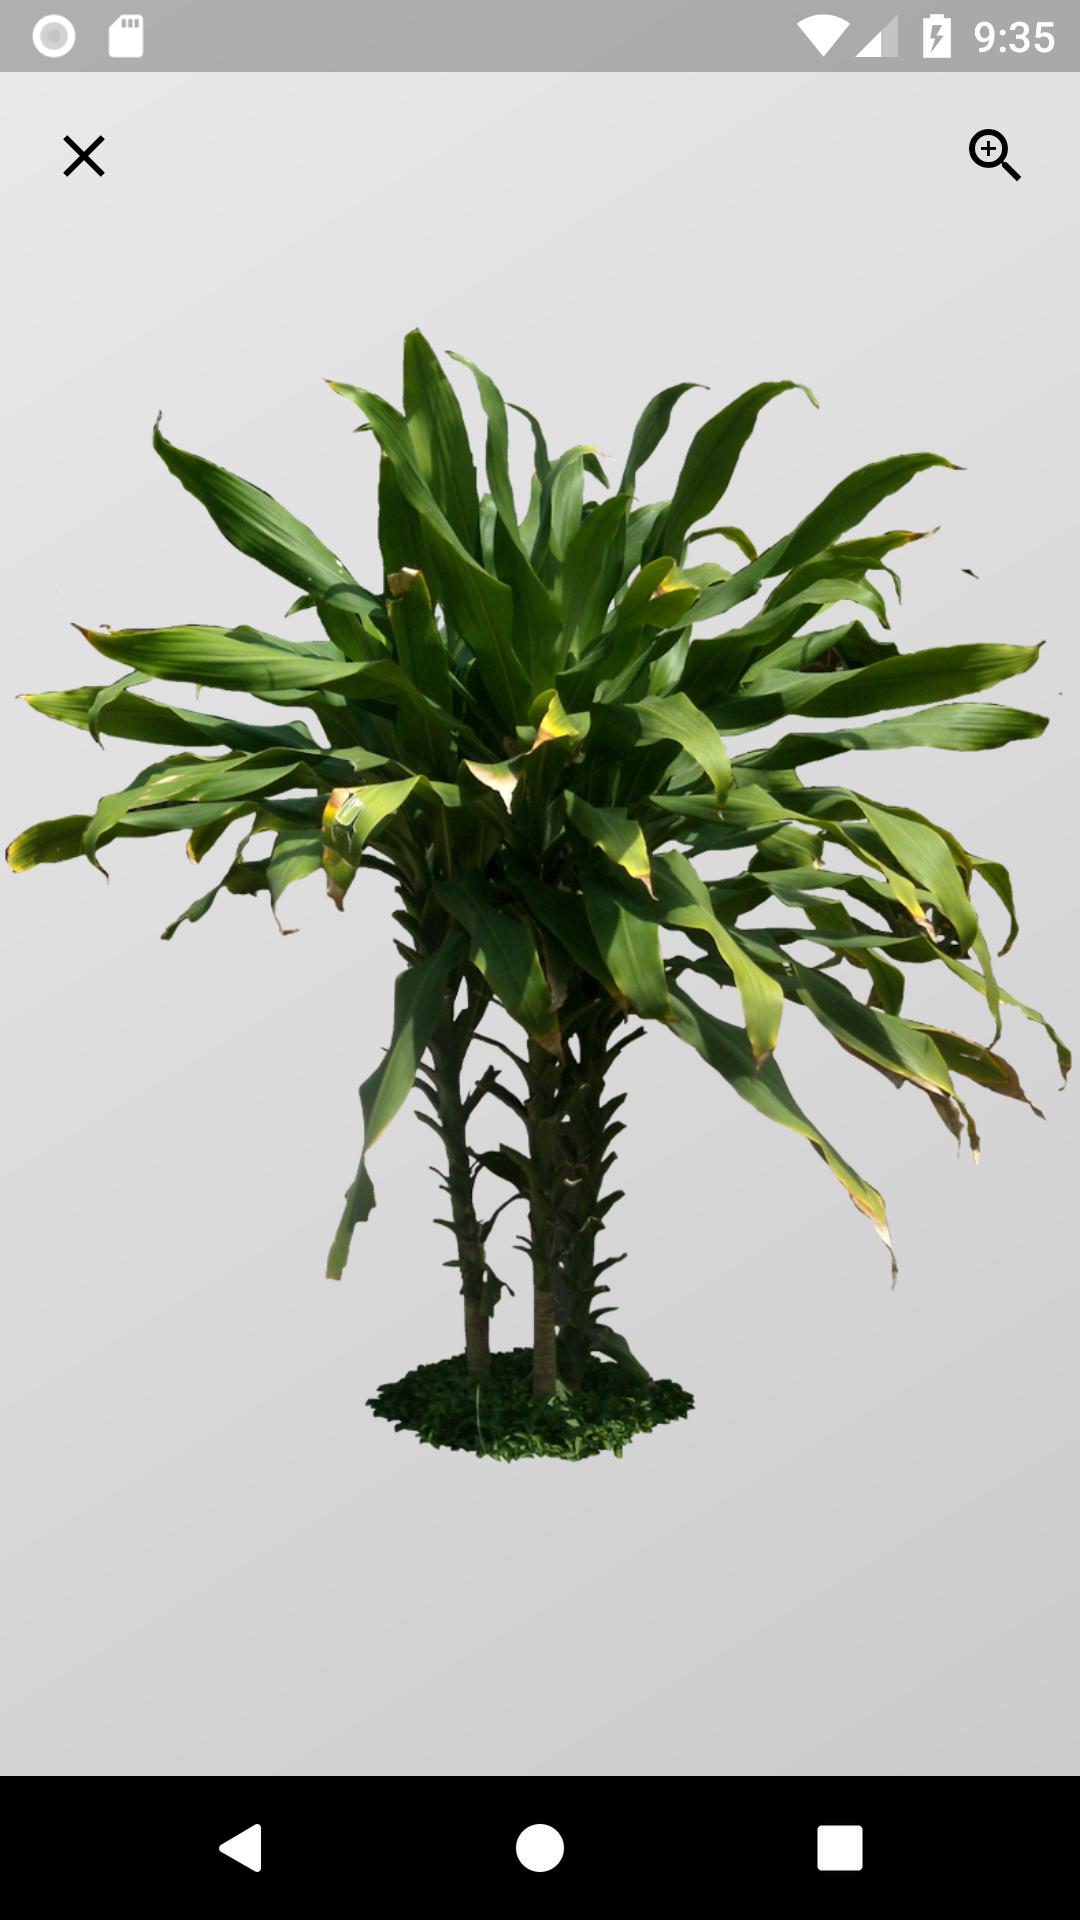
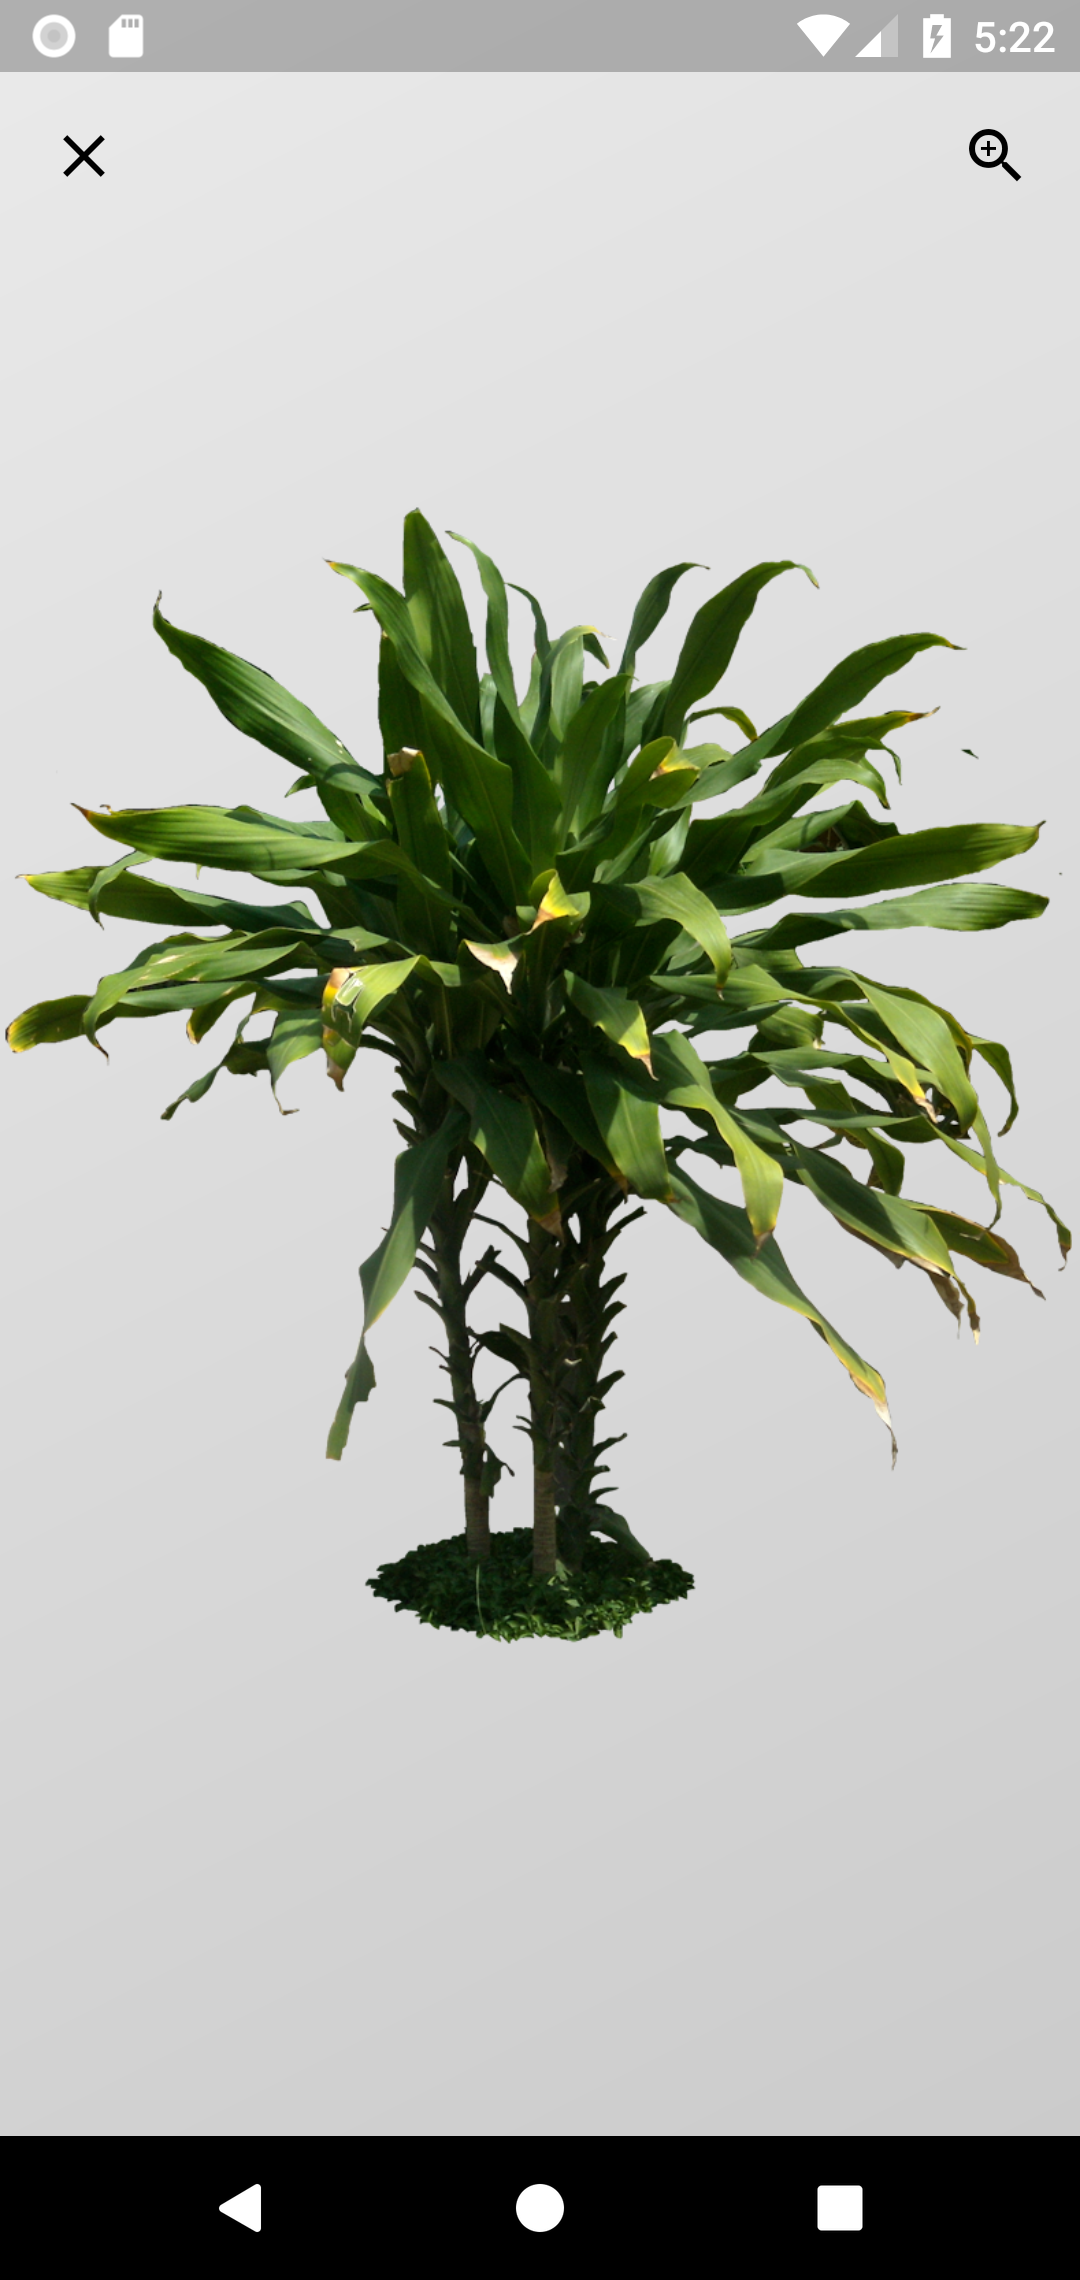
Better shadows, better no items cart page, and 19.5:9 (iphone x) screenshots

Changed region(s): [[0.0, 0.1562, 1.0, 0.7812], [0.0, 0.0, 1.0, 0.0938], [0.0, 0.9062, 1.0, 1.0]]

diff --git a/lib/pages/cart_page/cart_page.dart b/lib/pages/cart_page/cart_page.dart
@@ -55,7 +55,7 @@ class _CartPageState extends State<CartPage>
               child: new Padding
               (
                 padding: const EdgeInsets.all(24.0),
-                child: new Text('Buy Now \$${calculateFinalPrice().toStringAsFixed(2)}', style: new TextStyle(color: Colors.white, fontSize: 20.0, fontWeight: FontWeight.w600)),
+                child: new Text('Buy Now (\$${calculateFinalPrice().toStringAsFixed(2)})', style: new TextStyle(color: Colors.white, fontSize: 20.0, fontWeight: FontWeight.w600)),
               ),
             ),
           ),
@@ -96,20 +96,34 @@ class _CartPageState extends State<CartPage>
               crossAxisAlignment: CrossAxisAlignment.center,
               children: <Widget>
               [
-                new CircleAvatar
-                (
-                  radius: 64.0,
-                  backgroundColor: Colors.black26,
-                  child: new Icon(Icons.remove_shopping_cart, color: Colors.white, size: 64.0),
-                ),
+                new Icon(Icons.remove_shopping_cart, color: Colors.black26, size: 96.0),
                 new Padding(padding: new EdgeInsets.only(bottom: 48.0)),
-                new Text('Your cart is empty', style: new TextStyle(color: Colors.black, fontWeight: FontWeight.w700, fontSize: 22.0)),
+                new Text('Your cart is empty!', style: new TextStyle(color: Colors.black, fontWeight: FontWeight.w700, fontSize: 28.0)),
                 new Padding(padding: new EdgeInsets.only(bottom: 8.0)),
                 new Container
                 (
                   margin: new EdgeInsets.symmetric(horizontal: 64.0),
-                  child: new Text('Looks like you haven\'t added any plants to your cart yet.', textAlign: TextAlign.center, style: new TextStyle()),
+                  child: new Text('Looks like you haven\'t added any plants to your cart yet.', textAlign: TextAlign.center, style: new TextStyle(fontSize: 20.0)),
                 ),
+                new Padding(padding: new EdgeInsets.only(bottom: 96.0)),
+                new Container
+                (
+                  child: new Material
+                  (
+                    elevation: 16.0,
+                    shadowColor: new Color(0x7000E676),
+                    color: Colors.white,
+                    child: new InkWell
+                    (
+                      onTap: () => Navigator.of(context).pop(),
+                      child: new Padding
+                      (
+                        padding: const EdgeInsets.symmetric(horizontal: 64.0, vertical: 16.0),
+                        child: new Text('Go back', style: new TextStyle(color: Colors.green, fontWeight: FontWeight.w700)),
+                      ),
+                    ),
+                  ),
+                )
               ],
             ),
           )

diff --git a/lib/pages/cart_page/cart_item.dart b/lib/pages/cart_page/cart_item.dart
@@ -14,9 +14,10 @@ class CartItem extends StatelessWidget
       margin: new EdgeInsets.symmetric(horizontal: 16.0, vertical: 8.0),
       child: new Material
       (
-        elevation: 8.0,
+        elevation: 30.0,
+        shadowColor: Colors.black54,
         color: Colors.white,
-        borderRadius: new BorderRadius.circular(12.0),
+        borderRadius: new BorderRadius.circular(6.0),
         child: new Padding
         (
           padding: new EdgeInsets.symmetric(vertical: 6.0),

diff --git a/lib/pages/zoomable_image_page.dart b/lib/pages/zoomable_image_page.dart
@@ -24,7 +24,7 @@ class ZoomableImagePage extends StatelessWidget
               child: new Hero
               (
                 tag: imgPath,
-                child: new ZoomableImage(new AssetImage(imgPath), scale: 1.5),
+                child: new ZoomableImage(new AssetImage(imgPath), scale: 3.0),
               ),
             ),
             new Align
